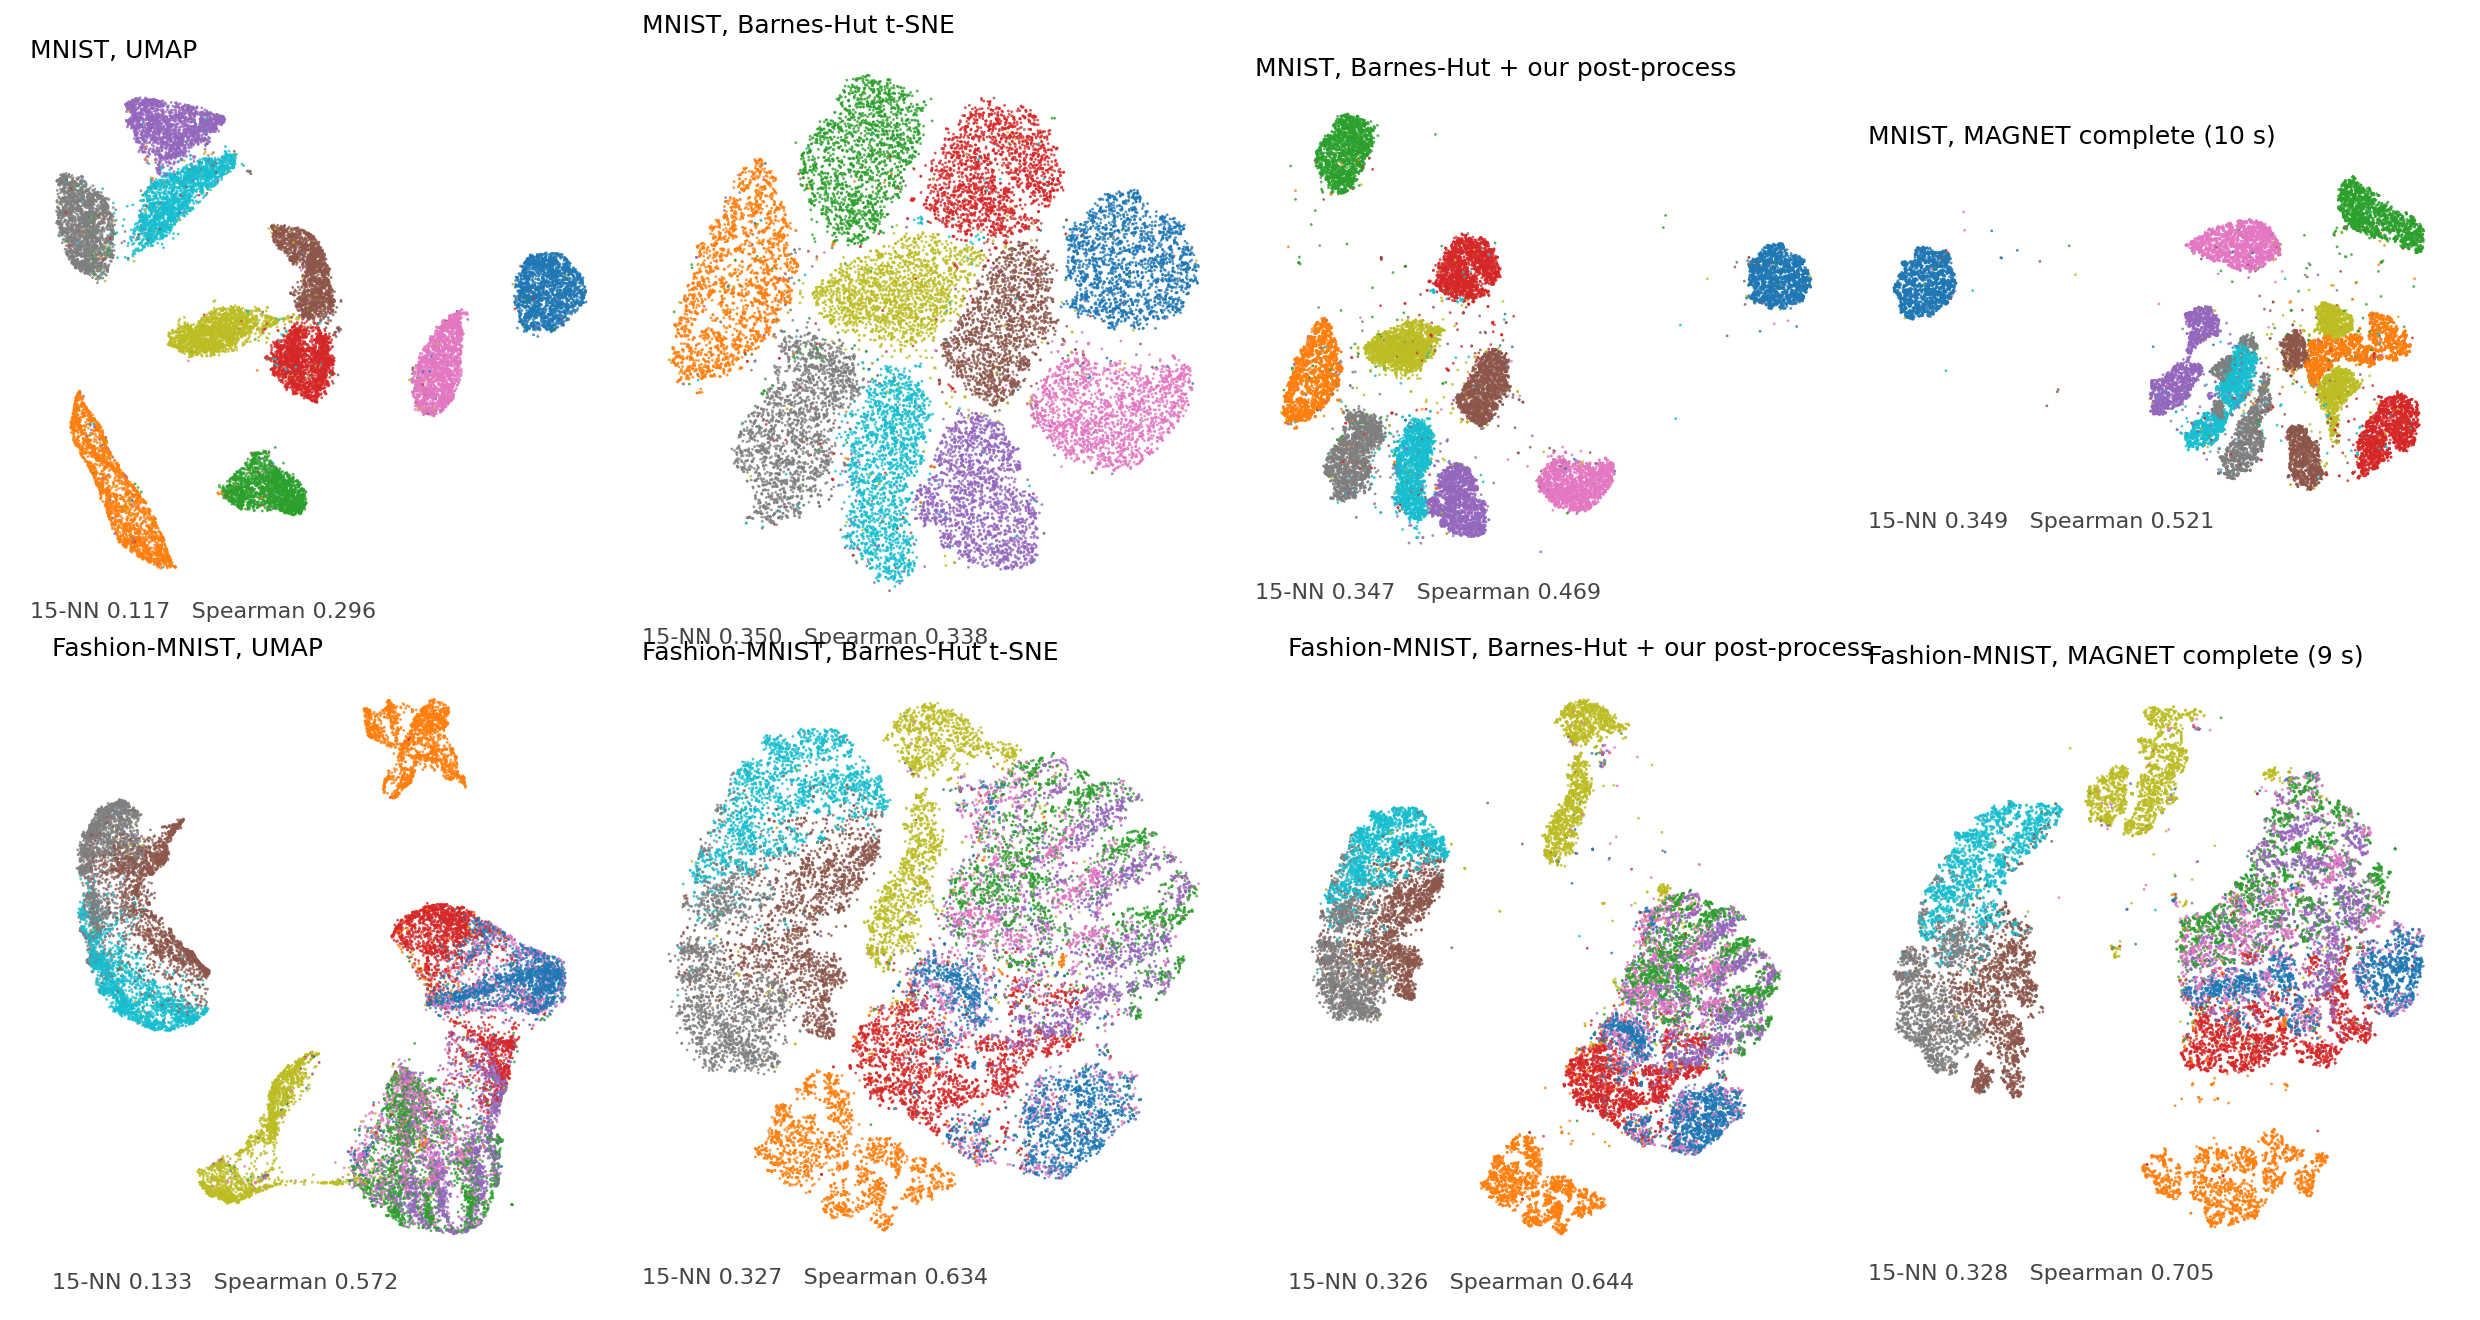
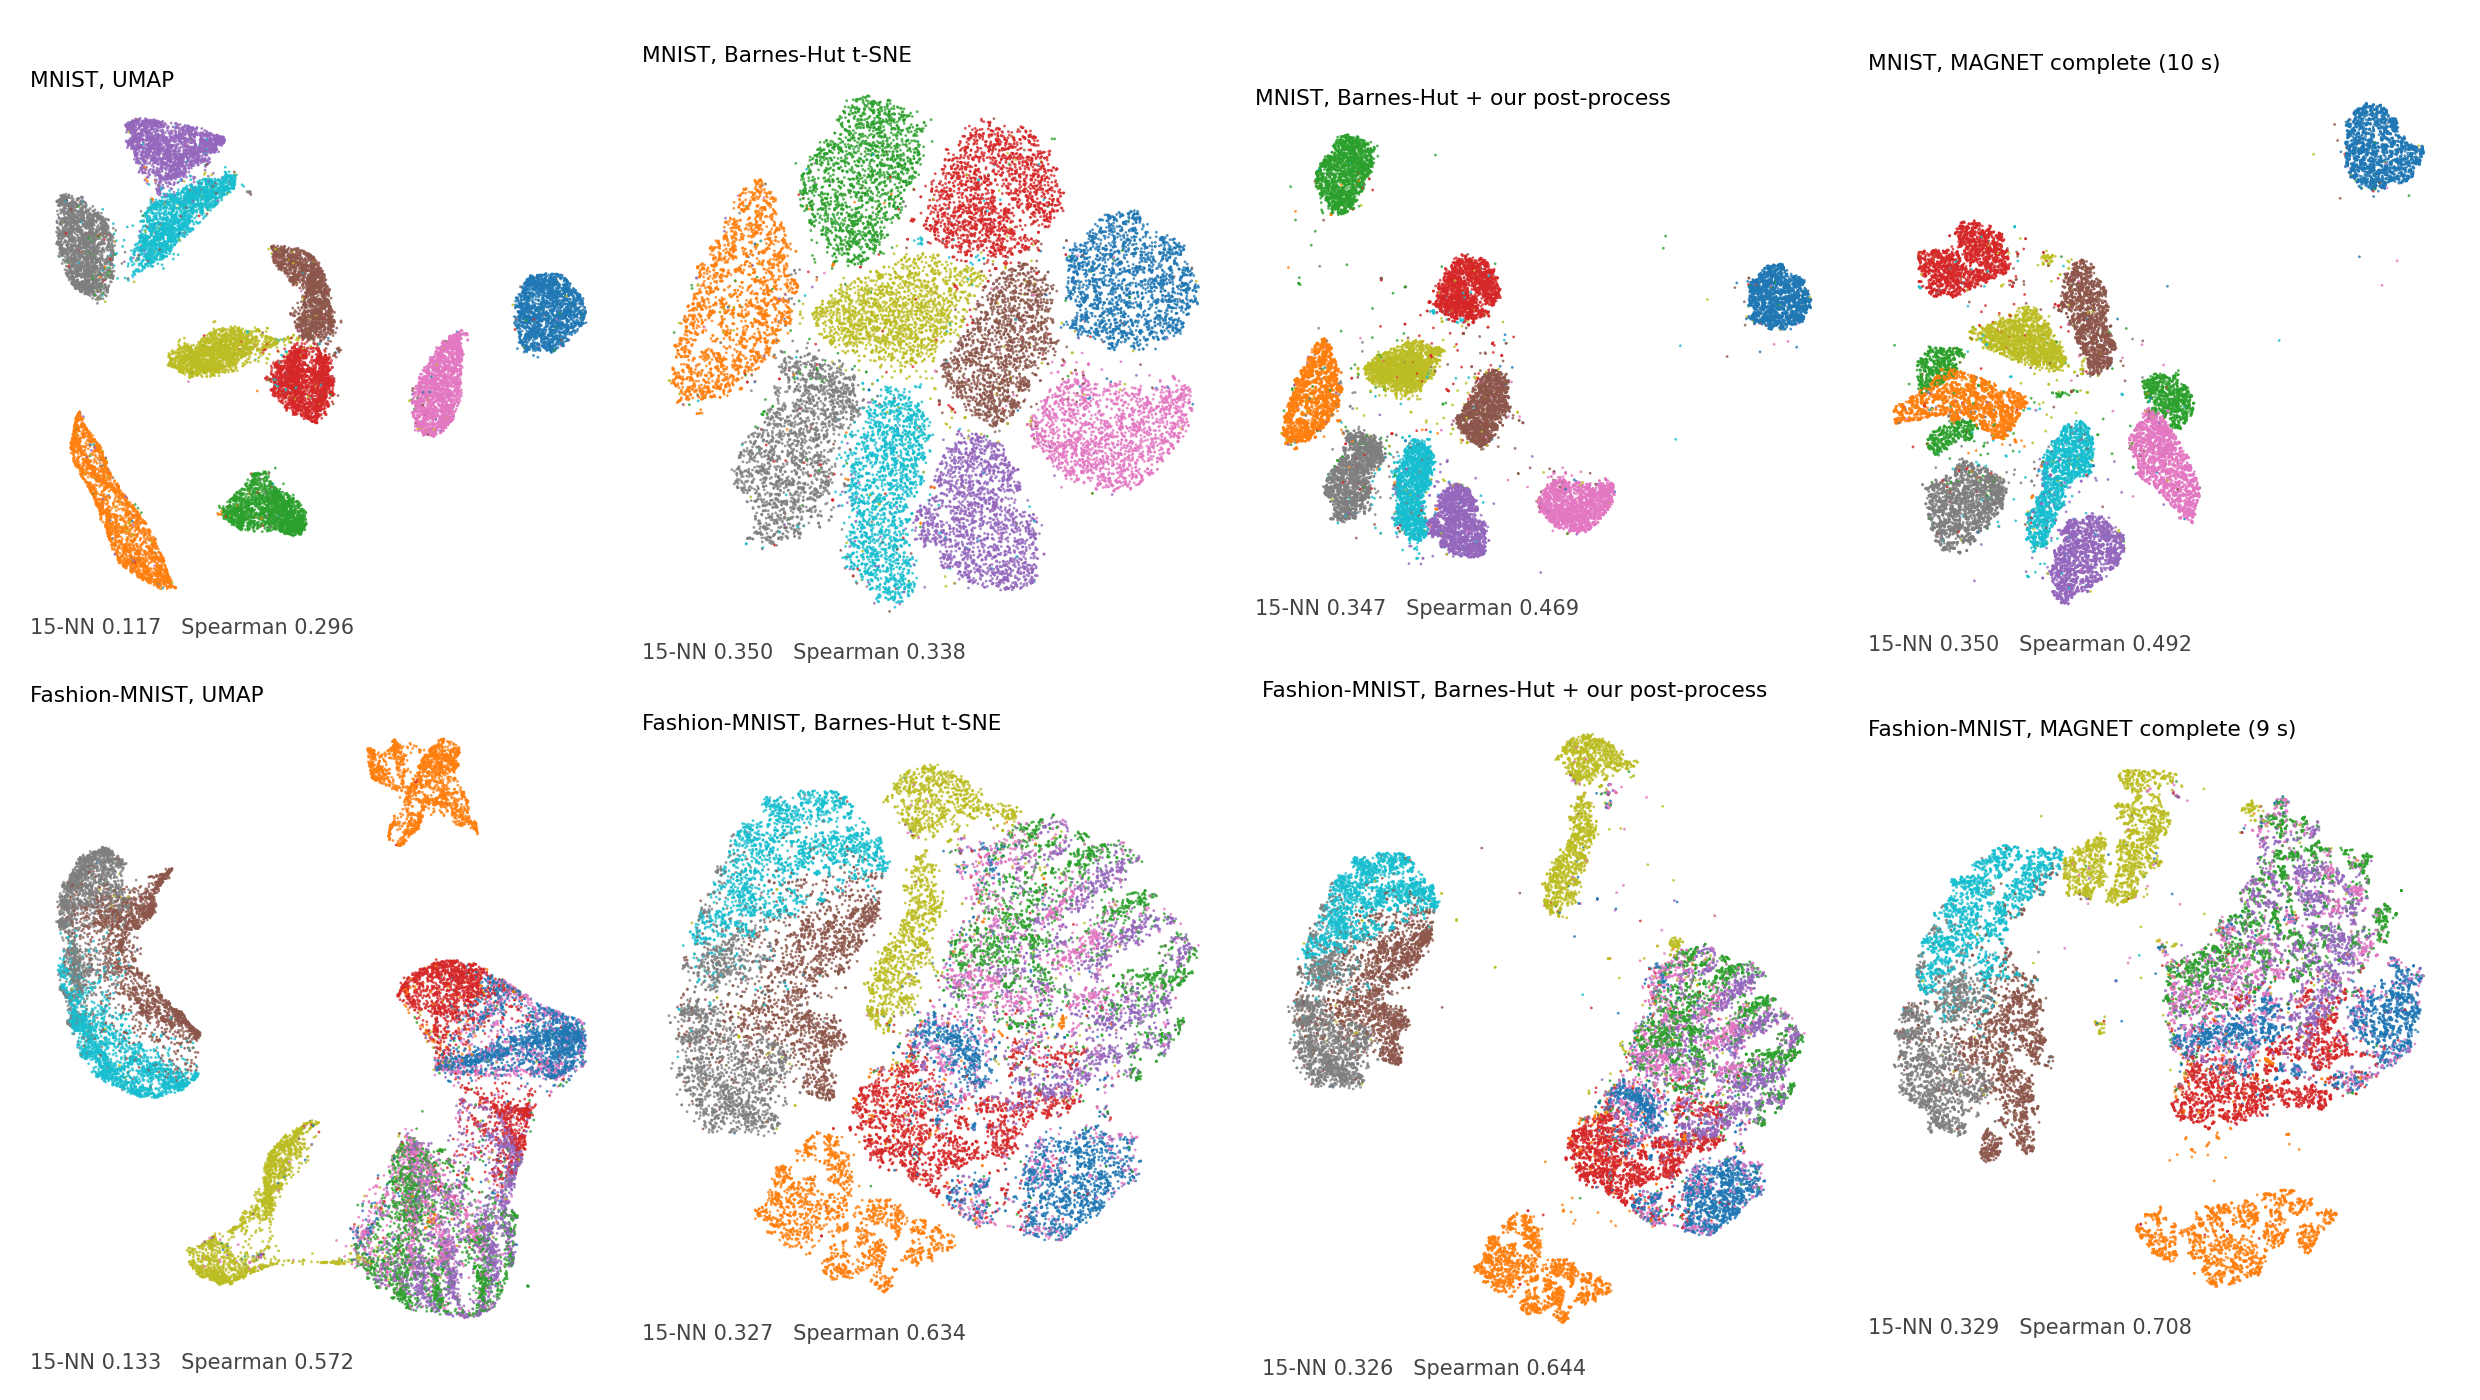
Pipeline figure: titles and spacing

diff --git a/paper/human/make_fig_pipeline.py b/paper/human/make_fig_pipeline.py
@@ -8,7 +8,7 @@ matplotlib.use("Agg"); import matplotlib.pyplot as plt
 from datasets import mnist, fmnist
 from metrics import evaluate
 from magnet import MAGNET
-fig, axes = plt.subplots(2, 4, figsize=(12.4, 6.6))
+fig, axes = plt.subplots(2, 4, figsize=(12.4, 7.0))
 for row, (ds, loader, name) in enumerate((("mnist", mnist, "MNIST"), ("fmnist", fmnist, "Fashion-MNIST"))):
     X, y, key = loader(70000); y = np.asarray(y).astype(int); n = len(y); show = np.random.default_rng(0).choice(n, 20000, replace=False)
     import scipy.sparse as sp
@@ -24,5 +24,5 @@ for row, (ds, loader, name) in enumerate((("mnist", mnist, "MNIST"), ("fmnist", 
     for col, (label, lay, dt) in enumerate(cols):
         lay = np.asarray(lay, dtype=np.float32); e = evaluate(X, lay, y, cache_key=key); ax = axes[row, col]
         ax.scatter(lay[show, 0], lay[show, 1], c=y[show], cmap="tab10", s=1.0, linewidths=0, alpha=0.8); ax.set_aspect("equal"); ax.set_xticks([]); ax.set_yticks([]); [sp.set_visible(False) for sp in ax.spines.values()]
-        ax.set_title(f"{name}, {label}" + (f" ({dt:.0f} s)" if dt else ""), fontsize=9, loc="left"); ax.text(0.0, -0.02, f"15-NN {e['knn15_preservation']:.3f}   Spearman {e['dist_spearman']:.3f}", transform=ax.transAxes, fontsize=8, va="top", color="#444444")
-fig.tight_layout(); fig.savefig(os.path.join(HERE, "figures", "fig_pipeline.png"), dpi=200); print("written")
+        ax.set_title(f"{name}, {label}" + (f" ({dt:.0f} s)" if dt else ""), fontsize=7.8, loc="left", pad=3); ax.text(0.0, -0.01, f"15-NN {e['knn15_preservation']:.3f}   Spearman {e['dist_spearman']:.3f}", transform=ax.transAxes, fontsize=7.5, va="top", color="#444444")
+fig.tight_layout(h_pad=2.0); fig.savefig(os.path.join(HERE, "figures", "fig_pipeline.png"), dpi=200); print("written")
